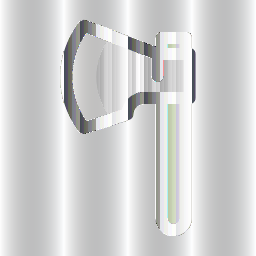
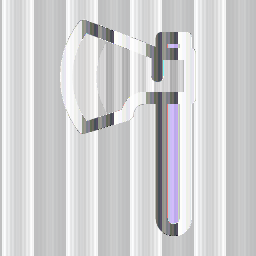
goldenmeausre

diff --git a/Grant's Code/golden_measure.py b/Grant's Code/golden_measure.py
@@ -1,0 +1,54 @@
+from PIL import Image
+import time
+import functions
+
+chunk_size = 2048
+
+def byte_xor(ba1, ba2):
+    return (int.from_bytes(ba1,'big')^int.from_bytes(ba2,'big')).to_bytes(1,'big')
+
+def inputNumber(message):
+  while True:
+    try:
+       userInput = int(input(message))       
+    except ValueError:
+       print("Not an integer! Try again.")
+       continue
+    else:
+       return userInput 
+       break 
+
+#Get image and COM port data from user
+input_image_name = input("Path to image to use => ")
+
+#Golden Measure Key and Offset
+golden_key = (inputNumber("KEY (Integer) => ") % 256).to_bytes(1,'big')
+golden_offset = (inputNumber("Offset (Integer) => ") % 256).to_bytes(1,'big')
+
+#Load image and convert to flat byte array
+try:
+    input_image_array, tuple_count = functions.imageToArray(input_image_name)
+except:
+    print(input_image_name, "cannot be found or is an invalid image.")
+    exit()
+
+#Golden Meausre
+print("Producing golden measure... ",end='')
+tic = time.time()
+output_image_array_golden = b''
+offset = golden_offset
+chunk = b''
+for i in range(0,len(input_image_array)):
+    
+    if (i % (chunk_size) == 0) and (i > 0):
+        offset = golden_offset
+
+    output_image_array_golden = output_image_array_golden + byte_xor(input_image_array[i],byte_xor(golden_key,offset))
+    
+    offset = (((int.from_bytes(offset,'big') + 1) % 256)).to_bytes(1,'big')
+
+print("DONE")
+print("Time Taken:", (time.time()-tic),"seconds")
+
+#Rebuild image from byte array
+functions.arrayToImage(output_image_array_golden,input_image_name)
